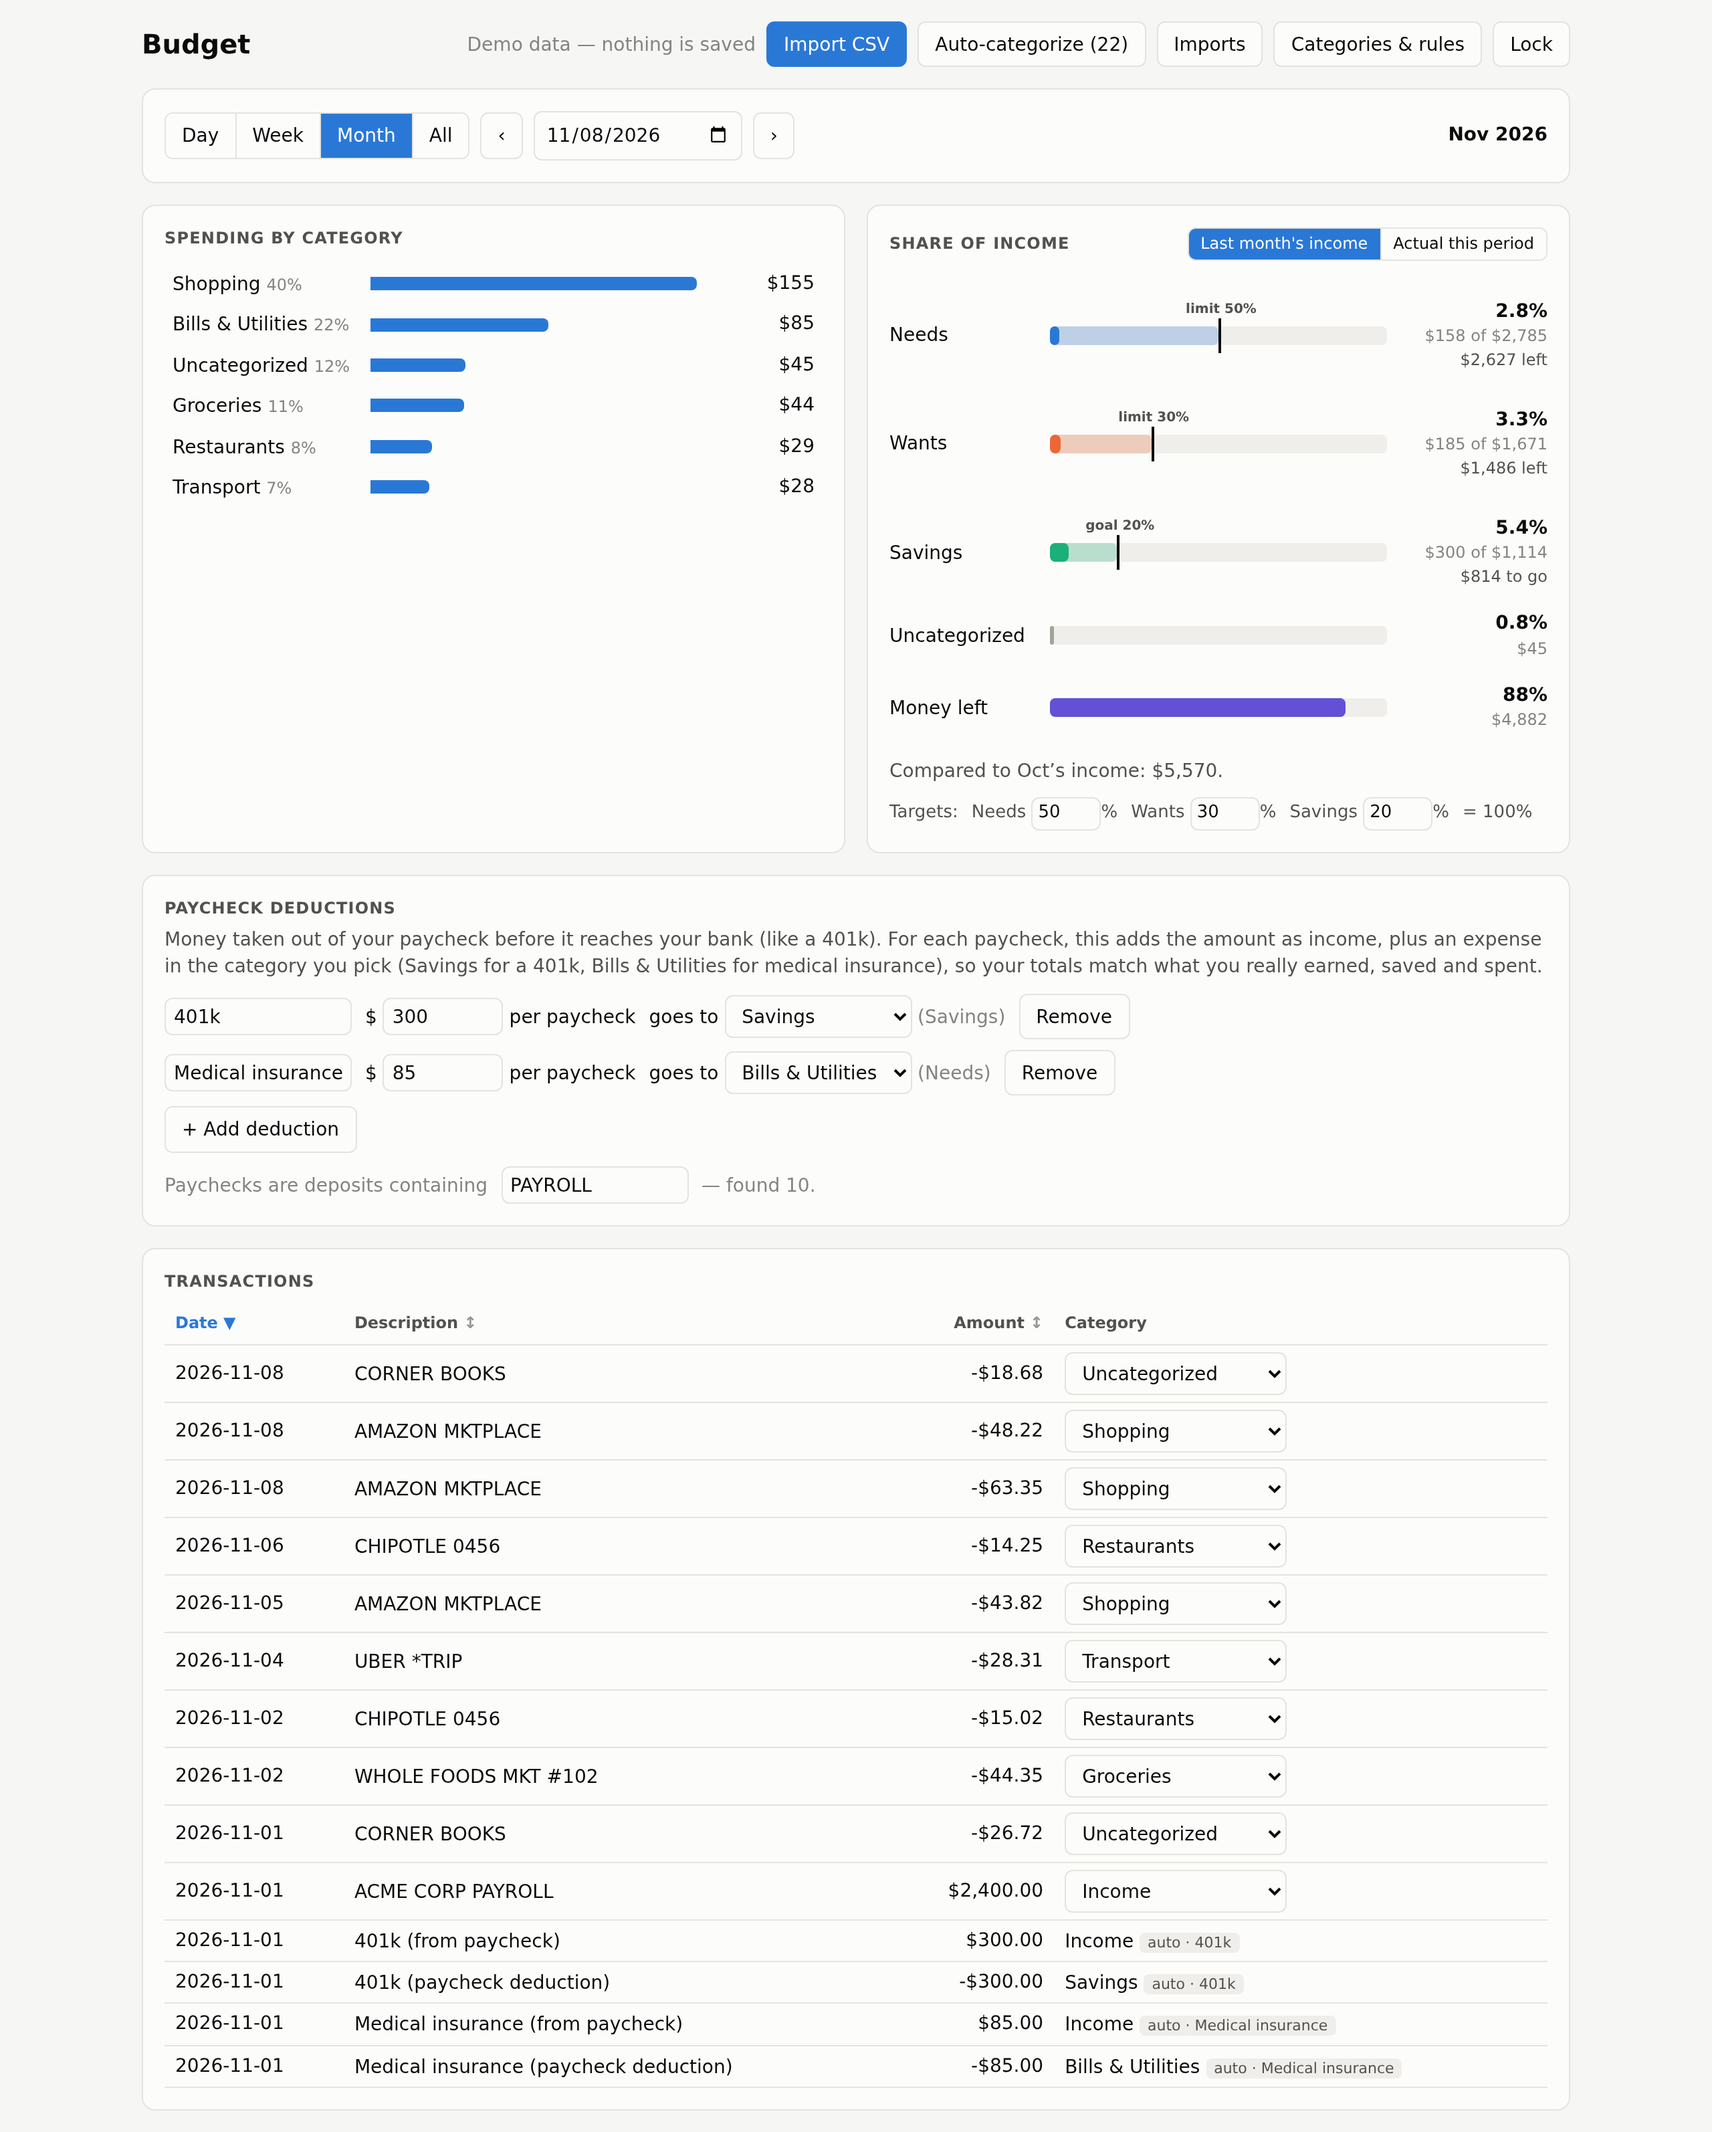
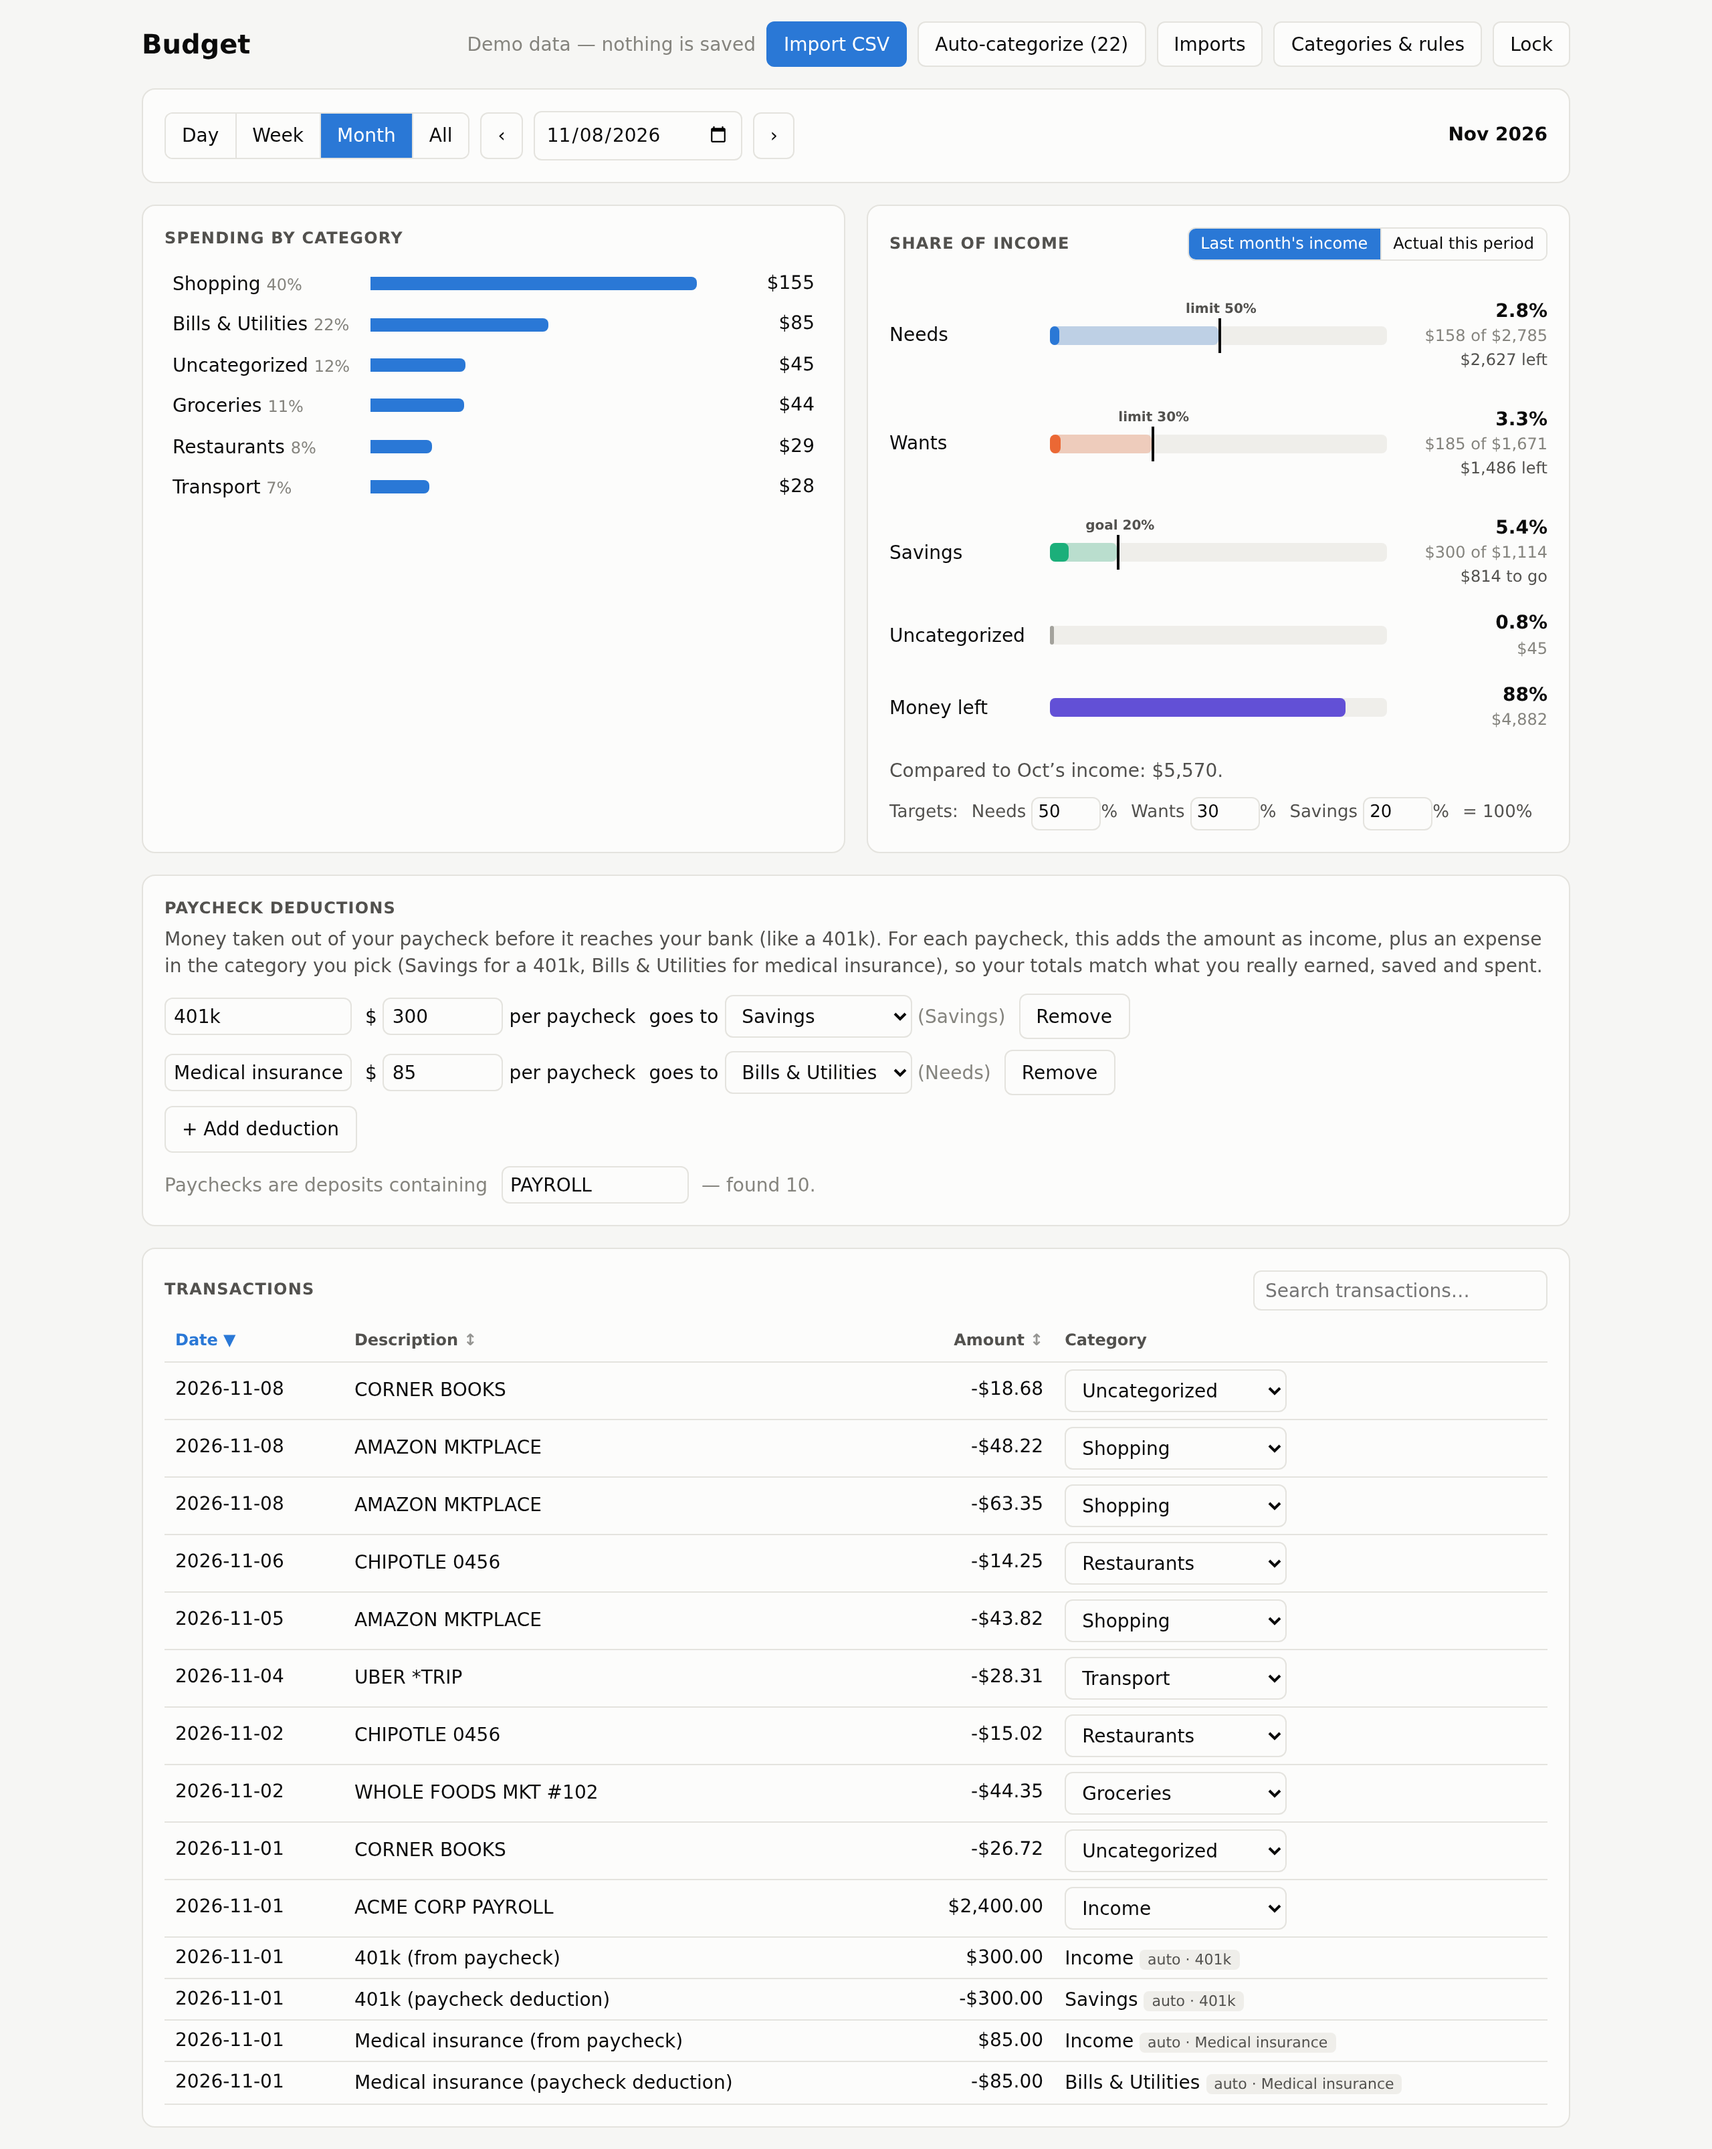
Search box for the transaction list

diff --git a/index.html b/index.html
@@ -200,7 +200,10 @@ dialog::backdrop { background: rgba(0,0,0,.45); }
   <div class="card" style="margin-top:16px">
     <div class="row spread">
       <h2 id="txTitle" style="margin:0">Transactions</h2>
-      <button id="clearCat" class="hidden">Show all transactions</button>
+      <div class="row" style="gap:8px">
+        <input type="search" id="txSearch" placeholder="Search transactions…" aria-label="Search transactions" style="width:220px;font:inherit;padding:4px 8px">
+        <button id="clearCat" class="hidden">Show all transactions</button>
+      </div>
     </div>
     <div id="ruleBanner" class="banner hidden"></div>
     <div class="tx-wrap" style="margin-top:8px">
@@ -867,6 +870,11 @@ function renderTable(txns) {
     amount: (a, b) => a.amount - b.amount,
   }[key];
   const rows = (S.cat ? txns.filter(t => catOf(t) === S.cat) : S.kind ? txns.filter(t => kindOf(t.cat) === S.kind) : txns).slice()
+    .filter(t => { // search box: matches description, category, date or amount
+      const q = (S.q || '').trim().toLowerCase();
+      if (!q) return true;
+      return `${t.desc} ${t.cat || UNCAT} ${t.date} ${t.amount.toFixed(2)} ${Math.abs(t.amount).toFixed(2)}`.toLowerCase().includes(q);
+    })
     .sort((a, b) => sign * cmp(a, b) || b.date.localeCompare(a.date)); // ties: newest first
   $('txHead').querySelectorAll('th.sortable').forEach(th => {
     const on = th.dataset.sort === key;
@@ -885,10 +893,12 @@ function renderTable(txns) {
       <td class="desc" title="${esc(t.desc)}">${esc(t.desc)}</td>
       <td class="num">${money.format(t.amount)}</td>
       <td>${t.auto ? `${esc(t.cat)} <span class="tag-auto" title="Added from Paycheck deductions">auto · ${esc(t.auto)}</span>` : select(t)}</td></tr>`).join('')
-    || '<tr><td colspan="4" class="muted">No transactions here. Import a CSV or pick another period.</td></tr>';
+    || `<tr><td colspan="4" class="muted">${S.q ? `Nothing matches “${esc(S.q)}” in this period.` : 'No transactions here. Import a CSV or pick another period.'}</td></tr>`;
   if (rows.length > LIMIT) $('txBody').insertAdjacentHTML('beforeend', `<tr><td colspan="4" class="muted">Showing the first ${LIMIT} of ${rows.length}. Pick a shorter period to see the rest.</td></tr>`);
   $('txBody').querySelectorAll('select').forEach(sel => (sel.onchange = () => setCategory(sel.dataset.id, sel.value)));
 }
+
+$('txSearch').oninput = () => { S.q = $('txSearch').value; render(); };
 
 // Click a header to sort; click again to flip. First click: newest dates, A→Z, biggest spending (most negative) first.
 const SORT_FIRST_DIR = { date: 'desc', desc: 'asc', amount: 'asc' };
